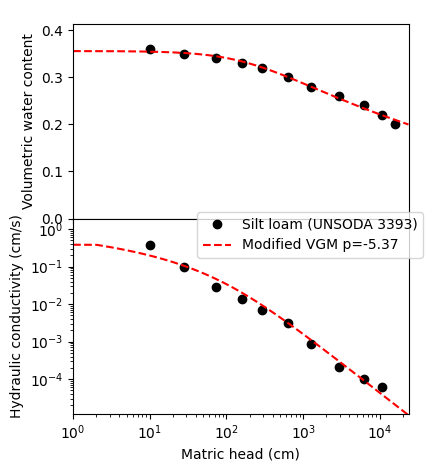
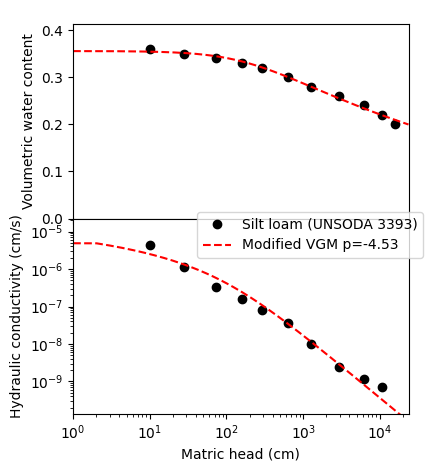
to cm/s

diff --git a/docs/sample/VG-Mualem.py b/docs/sample/VG-Mualem.py
@@ -12,7 +12,7 @@ h_t = np.array(ht['h'])
 theta = np.array(ht['theta'])
 ht = pd.read_csv(DATA_HCC, comment='#')
 h_k = np.array(ht['h'])
-k = np.array(ht['K'])
+k = np.array(ht['K']) / 24 / 3600
 ### Optimize parameters ###
 f = unsatfit.Fit()  # Create instance for fitting
 f.swrc = (h_t, theta)  # Data of soil water retention
